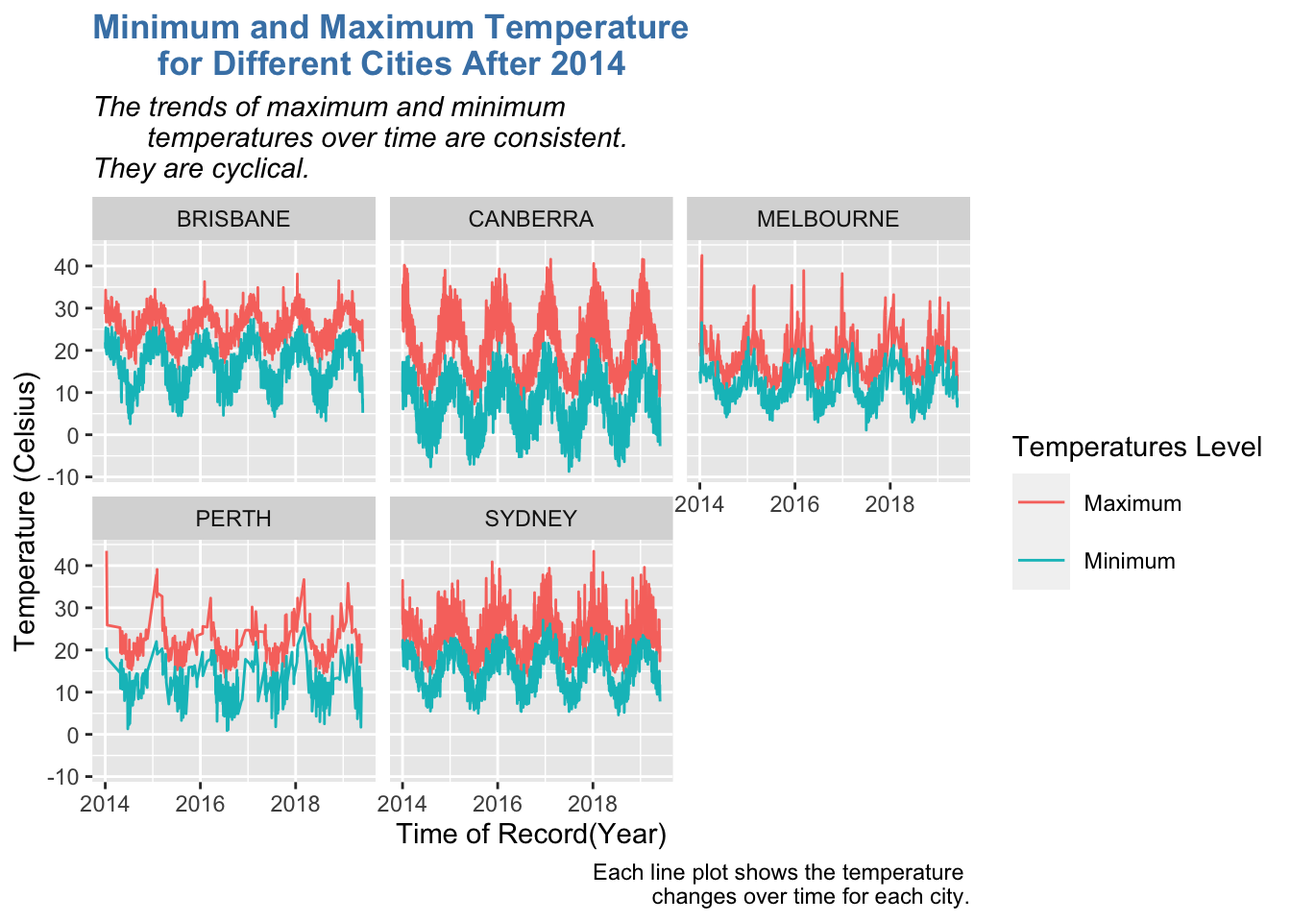
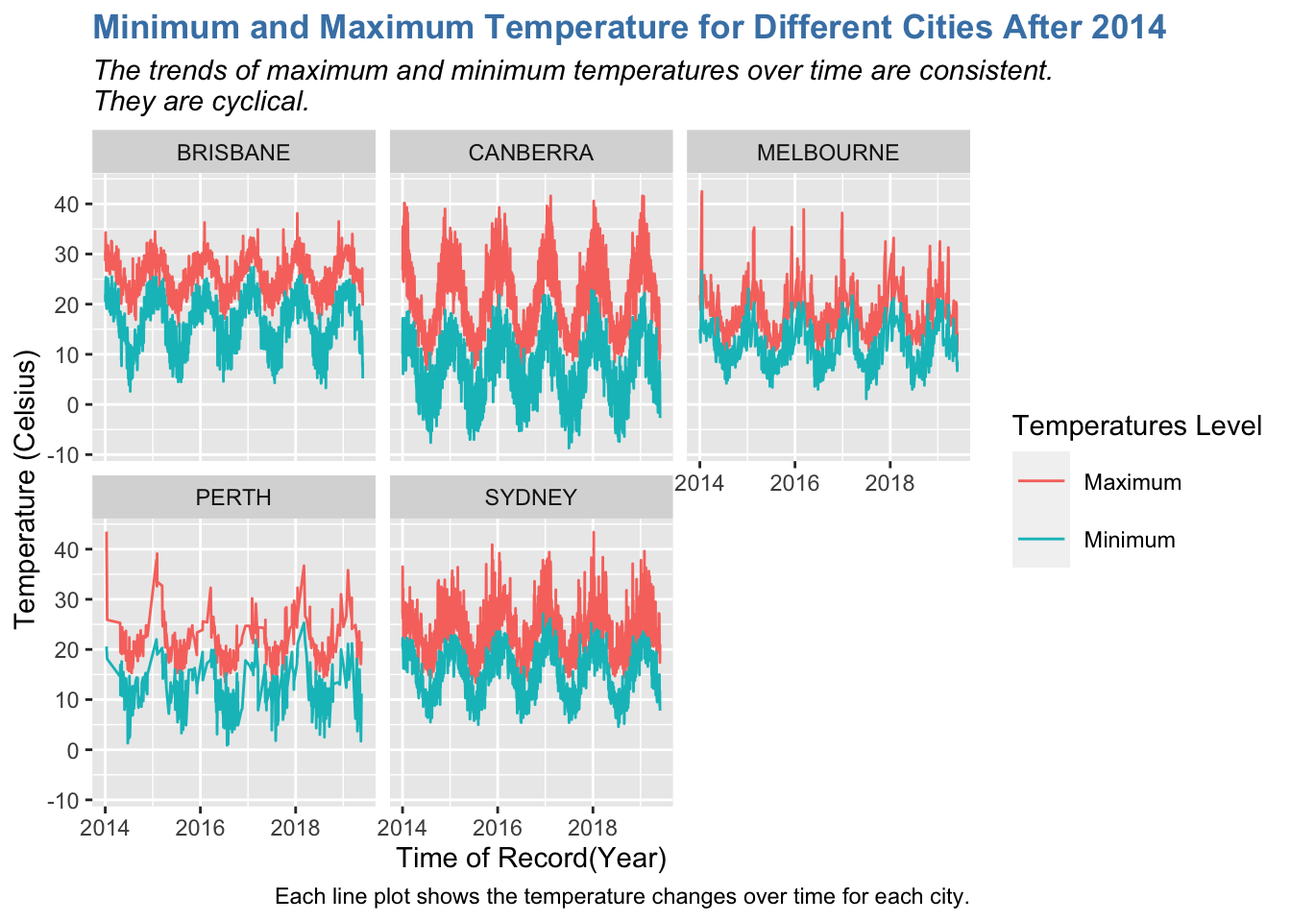
first complete webpage upload

Changed region(s): [[0.0, 0.0, 0.9062, 1.0], [0.7812, 0.4375, 1.0, 0.625], [0.7812, 0.5312, 0.8125, 0.5938]]

diff --git a/_site/analysis.html b/_site/analysis.html
@@ -159,8 +159,15 @@ code span.wa { color: #60a0b0; font-weight: bold; font-style: italic; } /* Warni
     <h2 id="toc-title">On this page</h2>
    
   <ul>
-  <li><a href="#plotting-temperature-data-over-time" id="toc-plotting-temperature-data-over-time" class="nav-link active" data-scroll-target="#plotting-temperature-data-over-time">Plotting temperature data over time</a></li>
-  <li><a href="#part-4b-tasks" id="toc-part-4b-tasks" class="nav-link" data-scroll-target="#part-4b-tasks">Part 4B: Tasks</a></li>
+  <li><a href="#data-analysis-goal" id="toc-data-analysis-goal" class="nav-link active" data-scroll-target="#data-analysis-goal">Data &amp; Analysis Goal</a></li>
+  <li><a href="#data-visualization" id="toc-data-visualization" class="nav-link" data-scroll-target="#data-visualization">Data Visualization</a>
+  <ul class="collapse">
+  <li><a href="#plotting-temperature-data-over-time" id="toc-plotting-temperature-data-over-time" class="nav-link" data-scroll-target="#plotting-temperature-data-over-time">Plotting temperature data over time</a></li>
+  <li><a href="#plotting-rainfall-data-over-time" id="toc-plotting-rainfall-data-over-time" class="nav-link" data-scroll-target="#plotting-rainfall-data-over-time">Plotting rainfall data over time</a></li>
+  <li><a href="#plotting-the-average-rainfall-of-each-year-for-each-city-with-95-condidence-interval" id="toc-plotting-the-average-rainfall-of-each-year-for-each-city-with-95-condidence-interval" class="nav-link" data-scroll-target="#plotting-the-average-rainfall-of-each-year-for-each-city-with-95-condidence-interval">Plotting the average rainfall of each Year for each City with 95% Condidence Interval</a></li>
+  </ul></li>
+  <li><a href="#analysis" id="toc-analysis" class="nav-link" data-scroll-target="#analysis">Analysis</a></li>
+  <li><a href="#functions-i-use" id="toc-functions-i-use" class="nav-link" data-scroll-target="#functions-i-use">Functions I use</a></li>
   </ul>
 </nav>
     </div>
@@ -183,7 +190,9 @@ code span.wa { color: #60a0b0; font-weight: bold; font-style: italic; } /* Warni
 
 </header>
 
-<p>This data is “about Australia, including it’s climate over time and recent fires.”(in-text citation?) I want to see the changes of rainfall corresponding to different temperatures and years in Australia.</p>
+<section id="data-analysis-goal" class="level2">
+<h2 class="anchored" data-anchor-id="data-analysis-goal">Data &amp; Analysis Goal</h2>
+<p>This data is about the amount of rainfall and the changes of temperatures over times in Australia. I want to see the changes of rainfall and corresponding to different years in Australia.</p>
 <p>And this data analysis will help meteorologists, botanists better understand the climate of Australia.</p>
 <div class="quarto-figure quarto-figure-center">
 <figure class="figure">
@@ -192,21 +201,25 @@ code span.wa { color: #60a0b0; font-weight: bold; font-style: italic; } /* Warni
 </figure>
 </div>
 <p>The two datasets I used here comes from TidyTuesday. Here is the link of the data set: https://github.com/rfordatascience/tidytuesday/tree/master/data/2020/2020-01-07</p>
+</section>
+<section id="data-visualization" class="level2 page-columns page-full">
+<h2 class="anchored" data-anchor-id="data-visualization">Data Visualization</h2>
 <div class="cell">
 <div class="sourceCode cell-code" id="cb1"><pre class="sourceCode r code-with-copy"><code class="sourceCode r"><span id="cb1-1"><a href="#cb1-1" aria-hidden="true" tabindex="-1"></a><span class="fu">library</span>(here)</span>
 <span id="cb1-2"><a href="#cb1-2" aria-hidden="true" tabindex="-1"></a><span class="fu">library</span>(tidyverse)</span>
 <span id="cb1-3"><a href="#cb1-3" aria-hidden="true" tabindex="-1"></a><span class="fu">library</span>(lubridate)</span></code><button title="Copy to Clipboard" class="code-copy-button"><i class="bi"></i></button></pre></div>
 </div>
 <div class="cell">
-<div class="sourceCode cell-code" id="cb2"><pre class="sourceCode r code-with-copy"><code class="sourceCode r"><span id="cb2-1"><a href="#cb2-1" aria-hidden="true" tabindex="-1"></a><span class="cf">if</span>(<span class="sc">!</span><span class="fu">file.exists</span>(<span class="fu">here</span>(<span class="st">"data"</span>,<span class="st">"tuesdata_rainfall.RDS"</span>))){</span>
-<span id="cb2-2"><a href="#cb2-2" aria-hidden="true" tabindex="-1"></a>  tuesdata <span class="ot">&lt;-</span> tidytuesdayR<span class="sc">::</span><span class="fu">tt_load</span>(<span class="st">'2020-01-07'</span>)</span>
-<span id="cb2-3"><a href="#cb2-3" aria-hidden="true" tabindex="-1"></a>  rainfall <span class="ot">&lt;-</span> tuesdata<span class="sc">$</span>rainfall</span>
-<span id="cb2-4"><a href="#cb2-4" aria-hidden="true" tabindex="-1"></a>  temperature <span class="ot">&lt;-</span> tuesdata<span class="sc">$</span>temperature</span>
-<span id="cb2-5"><a href="#cb2-5" aria-hidden="true" tabindex="-1"></a>  </span>
-<span id="cb2-6"><a href="#cb2-6" aria-hidden="true" tabindex="-1"></a>  <span class="co"># save the files to RDS objects</span></span>
-<span id="cb2-7"><a href="#cb2-7" aria-hidden="true" tabindex="-1"></a>  <span class="fu">saveRDS</span>(tuesdata<span class="sc">$</span>rainfall, <span class="at">file =</span> <span class="fu">here</span>(<span class="st">"data"</span>,<span class="st">"tuesdata_rainfall.RDS"</span>))</span>
-<span id="cb2-8"><a href="#cb2-8" aria-hidden="true" tabindex="-1"></a>  <span class="fu">saveRDS</span>(tuesdata<span class="sc">$</span>temperature, <span class="at">file =</span> <span class="fu">here</span>(<span class="st">"data"</span>,<span class="st">"tuesdata_temperature.RDS"</span>))</span>
-<span id="cb2-9"><a href="#cb2-9" aria-hidden="true" tabindex="-1"></a>}</span></code><button title="Copy to Clipboard" class="code-copy-button"><i class="bi"></i></button></pre></div>
+<div class="sourceCode cell-code" id="cb2"><pre class="sourceCode r code-with-copy"><code class="sourceCode r"><span id="cb2-1"><a href="#cb2-1" aria-hidden="true" tabindex="-1"></a><span class="co">#Download the data sets</span></span>
+<span id="cb2-2"><a href="#cb2-2" aria-hidden="true" tabindex="-1"></a><span class="cf">if</span>(<span class="sc">!</span><span class="fu">file.exists</span>(<span class="fu">here</span>(<span class="st">"data"</span>,<span class="st">"tuesdata_rainfall.RDS"</span>))){</span>
+<span id="cb2-3"><a href="#cb2-3" aria-hidden="true" tabindex="-1"></a>  tuesdata <span class="ot">&lt;-</span> tidytuesdayR<span class="sc">::</span><span class="fu">tt_load</span>(<span class="st">'2020-01-07'</span>)</span>
+<span id="cb2-4"><a href="#cb2-4" aria-hidden="true" tabindex="-1"></a>  rainfall <span class="ot">&lt;-</span> tuesdata<span class="sc">$</span>rainfall</span>
+<span id="cb2-5"><a href="#cb2-5" aria-hidden="true" tabindex="-1"></a>  temperature <span class="ot">&lt;-</span> tuesdata<span class="sc">$</span>temperature</span>
+<span id="cb2-6"><a href="#cb2-6" aria-hidden="true" tabindex="-1"></a>  </span>
+<span id="cb2-7"><a href="#cb2-7" aria-hidden="true" tabindex="-1"></a>  <span class="co"># save the files to RDS objects</span></span>
+<span id="cb2-8"><a href="#cb2-8" aria-hidden="true" tabindex="-1"></a>  <span class="fu">saveRDS</span>(tuesdata<span class="sc">$</span>rainfall, <span class="at">file =</span> <span class="fu">here</span>(<span class="st">"data"</span>,<span class="st">"tuesdata_rainfall.RDS"</span>))</span>
+<span id="cb2-9"><a href="#cb2-9" aria-hidden="true" tabindex="-1"></a>  <span class="fu">saveRDS</span>(tuesdata<span class="sc">$</span>temperature, <span class="at">file =</span> <span class="fu">here</span>(<span class="st">"data"</span>,<span class="st">"tuesdata_temperature.RDS"</span>))</span>
+<span id="cb2-10"><a href="#cb2-10" aria-hidden="true" tabindex="-1"></a>}</span></code><button title="Copy to Clipboard" class="code-copy-button"><i class="bi"></i></button></pre></div>
 </div>
 <div class="cell">
 <div class="sourceCode cell-code" id="cb3"><pre class="sourceCode r code-with-copy"><code class="sourceCode r"><span id="cb3-1"><a href="#cb3-1" aria-hidden="true" tabindex="-1"></a>rainfall <span class="ot">&lt;-</span> <span class="fu">readRDS</span>(<span class="fu">here</span>(<span class="st">"data"</span>,<span class="st">"tuesdata_rainfall.RDS"</span>))</span>
@@ -227,25 +240,22 @@ code span.wa { color: #60a0b0; font-weight: bold; font-style: italic; } /* Warni
 <div class="sourceCode cell-code" id="cb6"><pre class="sourceCode r code-with-copy"><code class="sourceCode r"><span id="cb6-1"><a href="#cb6-1" aria-hidden="true" tabindex="-1"></a><span class="co">#join rainfall and temperature</span></span>
 <span id="cb6-2"><a href="#cb6-2" aria-hidden="true" tabindex="-1"></a>df <span class="ot">=</span> rainfall_d <span class="sc">%&gt;%</span> <span class="fu">inner_join</span>(temperature, <span class="at">by =</span> <span class="fu">c</span>(<span class="st">"city_name"</span>, <span class="st">"date"</span>))</span></code><button title="Copy to Clipboard" class="code-copy-button"><i class="bi"></i></button></pre></div>
 </div>
-<section id="plotting-temperature-data-over-time" class="level2 page-columns page-full">
-<h2 class="anchored" data-anchor-id="plotting-temperature-data-over-time">Plotting temperature data over time</h2>
+<section id="plotting-temperature-data-over-time" class="level3">
+<h3 class="anchored" data-anchor-id="plotting-temperature-data-over-time">Plotting temperature data over time</h3>
 <div class="cell">
 <div class="sourceCode cell-code" id="cb7"><pre class="sourceCode r code-with-copy"><code class="sourceCode r"><span id="cb7-1"><a href="#cb7-1" aria-hidden="true" tabindex="-1"></a><span class="fu">library</span>(ggplot2)</span>
 <span id="cb7-2"><a href="#cb7-2" aria-hidden="true" tabindex="-1"></a>df <span class="sc">%&gt;%</span> <span class="fu">filter</span>(year <span class="sc">&gt;=</span> <span class="dv">2014</span>) <span class="sc">%&gt;%</span> </span>
 <span id="cb7-3"><a href="#cb7-3" aria-hidden="true" tabindex="-1"></a>  <span class="fu">ggplot</span>(<span class="fu">aes</span>(<span class="at">x =</span> date, <span class="at">y =</span> temperature, <span class="at">color =</span> temp_type)) <span class="sc">+</span> </span>
 <span id="cb7-4"><a href="#cb7-4" aria-hidden="true" tabindex="-1"></a>  <span class="fu">geom_line</span>()  <span class="sc">+</span> <span class="fu">facet_wrap</span>(<span class="fu">vars</span>(city_name)) <span class="sc">+</span></span>
 <span id="cb7-5"><a href="#cb7-5" aria-hidden="true" tabindex="-1"></a>  <span class="fu">labs</span>(<span class="at">x =</span> <span class="st">"Time of Record(Year)"</span>, <span class="at">y =</span> <span class="st">"Temperature (Celsius)"</span>, </span>
-<span id="cb7-6"><a href="#cb7-6" aria-hidden="true" tabindex="-1"></a>       <span class="at">title =</span> <span class="st">"Minimum and Maximum Temperature </span></span>
-<span id="cb7-7"><a href="#cb7-7" aria-hidden="true" tabindex="-1"></a><span class="st">       for Different Cities After 2014"</span>,</span>
-<span id="cb7-8"><a href="#cb7-8" aria-hidden="true" tabindex="-1"></a>       <span class="at">subtitle =</span> <span class="st">"The trends of maximum and minimum </span></span>
-<span id="cb7-9"><a href="#cb7-9" aria-hidden="true" tabindex="-1"></a><span class="st">       temperatures over time are consistent.</span><span class="sc">\n</span><span class="st">They are cyclical."</span>,</span>
-<span id="cb7-10"><a href="#cb7-10" aria-hidden="true" tabindex="-1"></a>       <span class="at">caption =</span> <span class="st">"Each line plot shows the temperature </span></span>
-<span id="cb7-11"><a href="#cb7-11" aria-hidden="true" tabindex="-1"></a><span class="st">       changes over time for each city."</span>) <span class="sc">+</span></span>
-<span id="cb7-12"><a href="#cb7-12" aria-hidden="true" tabindex="-1"></a>  <span class="fu">theme</span>(<span class="at">plot.title =</span> <span class="fu">element_text</span>(<span class="at">color=</span><span class="st">"steelblue"</span>, <span class="at">face=</span><span class="st">"bold"</span>),</span>
-<span id="cb7-13"><a href="#cb7-13" aria-hidden="true" tabindex="-1"></a>        <span class="at">plot.subtitle =</span> <span class="fu">element_text</span>(<span class="at">face=</span><span class="st">"italic"</span>), </span>
-<span id="cb7-14"><a href="#cb7-14" aria-hidden="true" tabindex="-1"></a>        <span class="at">legend.key.size =</span> <span class="fu">unit</span>(<span class="fl">0.8</span>, <span class="st">'cm'</span>)) <span class="sc">+</span> </span>
-<span id="cb7-15"><a href="#cb7-15" aria-hidden="true" tabindex="-1"></a>  <span class="fu">scale_color_discrete</span>(<span class="at">name =</span> <span class="st">"Temperatures Level"</span>,</span>
-<span id="cb7-16"><a href="#cb7-16" aria-hidden="true" tabindex="-1"></a>                       <span class="at">labels=</span><span class="fu">c</span>(<span class="st">"Maximum"</span>, <span class="st">"Minimum"</span>))</span></code><button title="Copy to Clipboard" class="code-copy-button"><i class="bi"></i></button></pre></div>
+<span id="cb7-6"><a href="#cb7-6" aria-hidden="true" tabindex="-1"></a>       <span class="at">title =</span> <span class="st">"Minimum and Maximum Temperature for Different Cities After 2014"</span>,</span>
+<span id="cb7-7"><a href="#cb7-7" aria-hidden="true" tabindex="-1"></a>       <span class="at">subtitle =</span> <span class="st">"The trends of maximum and minimum temperatures over time are consistent.</span><span class="sc">\n</span><span class="st">They are cyclical."</span>,</span>
+<span id="cb7-8"><a href="#cb7-8" aria-hidden="true" tabindex="-1"></a>       <span class="at">caption =</span> <span class="st">"Each line plot shows the temperature changes over time for each city."</span>) <span class="sc">+</span></span>
+<span id="cb7-9"><a href="#cb7-9" aria-hidden="true" tabindex="-1"></a>  <span class="fu">theme</span>(<span class="at">plot.title =</span> <span class="fu">element_text</span>(<span class="at">color=</span><span class="st">"steelblue"</span>, <span class="at">face=</span><span class="st">"bold"</span>),</span>
+<span id="cb7-10"><a href="#cb7-10" aria-hidden="true" tabindex="-1"></a>        <span class="at">plot.subtitle =</span> <span class="fu">element_text</span>(<span class="at">face=</span><span class="st">"italic"</span>), </span>
+<span id="cb7-11"><a href="#cb7-11" aria-hidden="true" tabindex="-1"></a>        <span class="at">legend.key.size =</span> <span class="fu">unit</span>(<span class="fl">0.8</span>, <span class="st">'cm'</span>)) <span class="sc">+</span> </span>
+<span id="cb7-12"><a href="#cb7-12" aria-hidden="true" tabindex="-1"></a>  <span class="fu">scale_color_discrete</span>(<span class="at">name =</span> <span class="st">"Temperatures Level"</span>,</span>
+<span id="cb7-13"><a href="#cb7-13" aria-hidden="true" tabindex="-1"></a>                       <span class="at">labels=</span><span class="fu">c</span>(<span class="st">"Maximum"</span>, <span class="st">"Minimum"</span>))</span></code><button title="Copy to Clipboard" class="code-copy-button"><i class="bi"></i></button></pre></div>
 <div class="cell-output-display">
 <p><img src="analysis_files/figure-html/unnamed-chunk-7-1.png" class="img-fluid" width="672"></p>
 </div>
@@ -256,7 +266,7 @@ code span.wa { color: #60a0b0; font-weight: bold; font-style: italic; } /* Warni
 <i class="callout-icon"></i>
 </div>
 <div class="callout-caption-container flex-fill">
-Tip
+Ideals about the function
 </div>
 <div class="callout-btn-toggle d-inline-block border-0 py-1 ps-1 pe-0 float-end"><i class="callout-toggle"></i></div>
 </div>
@@ -271,33 +281,36 @@ Tip
 </div>
 </div>
 </div>
+</section>
+<section id="plotting-rainfall-data-over-time" class="level3 page-columns page-full">
+<h3 class="anchored" data-anchor-id="plotting-rainfall-data-over-time">Plotting rainfall data over time</h3>
 <div class="cell">
-<div class="sourceCode cell-code" id="cb8"><pre class="sourceCode r code-with-copy"><code class="sourceCode r"><span id="cb8-1"><a href="#cb8-1" aria-hidden="true" tabindex="-1"></a>rainfall_plot <span class="ot">=</span> <span class="cf">function</span>(name, time){</span>
-<span id="cb8-2"><a href="#cb8-2" aria-hidden="true" tabindex="-1"></a>  cityname_list <span class="ot">=</span> df<span class="sc">$</span>city_name <span class="sc">%&gt;%</span> <span class="fu">unique</span>()</span>
-<span id="cb8-3"><a href="#cb8-3" aria-hidden="true" tabindex="-1"></a>  <span class="cf">if</span> (name <span class="sc">%in%</span> cityname_list){</span>
-<span id="cb8-4"><a href="#cb8-4" aria-hidden="true" tabindex="-1"></a>    <span class="cf">if</span> ((df <span class="sc">%&gt;%</span> <span class="fu">filter</span>(city_name <span class="sc">==</span> name, year <span class="sc">==</span> time)<span class="sc">%&gt;%</span> </span>
-<span id="cb8-5"><a href="#cb8-5" aria-hidden="true" tabindex="-1"></a>         <span class="fu">count</span>()) <span class="sc">&gt;</span> <span class="dv">0</span>){</span>
-<span id="cb8-6"><a href="#cb8-6" aria-hidden="true" tabindex="-1"></a>      df <span class="sc">%&gt;%</span> </span>
-<span id="cb8-7"><a href="#cb8-7" aria-hidden="true" tabindex="-1"></a>  <span class="fu">filter</span>(city_name <span class="sc">==</span> name, year <span class="sc">==</span> time) <span class="sc">%&gt;%</span> </span>
-<span id="cb8-8"><a href="#cb8-8" aria-hidden="true" tabindex="-1"></a>  <span class="fu">ggplot</span>(<span class="fu">aes</span>(<span class="fu">log</span>(rainfall))) <span class="sc">+</span> </span>
-<span id="cb8-9"><a href="#cb8-9" aria-hidden="true" tabindex="-1"></a>    <span class="fu">geom_histogram</span>(<span class="at">color =</span> <span class="st">"white"</span>, <span class="at">fill =</span> <span class="st">"steelblue"</span>) <span class="sc">+</span></span>
-<span id="cb8-10"><a href="#cb8-10" aria-hidden="true" tabindex="-1"></a>  <span class="fu">stat_bin</span>(<span class="at">geom=</span><span class="st">'text'</span>, <span class="fu">aes</span>(<span class="at">label =</span> ..count..), </span>
-<span id="cb8-11"><a href="#cb8-11" aria-hidden="true" tabindex="-1"></a>           <span class="at">position=</span><span class="fu">position_stack</span>(<span class="at">vjust =</span> <span class="fl">0.5</span>), <span class="at">size =</span> <span class="dv">3</span>)<span class="sc">+</span></span>
-<span id="cb8-12"><a href="#cb8-12" aria-hidden="true" tabindex="-1"></a>  <span class="fu">labs</span>(<span class="at">x =</span> <span class="st">"Amount of Rainfall"</span>, <span class="at">y =</span> <span class="st">"Numbers of Occurence"</span>, </span>
-<span id="cb8-13"><a href="#cb8-13" aria-hidden="true" tabindex="-1"></a>       <span class="at">title =</span> <span class="fu">paste</span>(<span class="st">"Histograms of Rainfall for"</span>, name, <span class="st">"in"</span>, time),</span>
-<span id="cb8-14"><a href="#cb8-14" aria-hidden="true" tabindex="-1"></a>       <span class="at">subtitle =</span> <span class="st">"This plot shows the distribution of rainfall for the given city and year."</span>,</span>
-<span id="cb8-15"><a href="#cb8-15" aria-hidden="true" tabindex="-1"></a>       <span class="at">caption =</span> <span class="st">"Here we use log scale of rainfall."</span>) <span class="sc">+</span>  </span>
-<span id="cb8-16"><a href="#cb8-16" aria-hidden="true" tabindex="-1"></a>  <span class="fu">theme</span>(<span class="at">plot.title =</span> <span class="fu">element_text</span>(<span class="at">color=</span><span class="st">"steelblue"</span>, <span class="at">face=</span><span class="st">"bold"</span>),</span>
-<span id="cb8-17"><a href="#cb8-17" aria-hidden="true" tabindex="-1"></a>        <span class="at">plot.subtitle =</span> <span class="fu">element_text</span>(<span class="at">face=</span><span class="st">"italic"</span>))</span>
-<span id="cb8-18"><a href="#cb8-18" aria-hidden="true" tabindex="-1"></a>    }</span>
-<span id="cb8-19"><a href="#cb8-19" aria-hidden="true" tabindex="-1"></a>    <span class="cf">else</span>{</span>
-<span id="cb8-20"><a href="#cb8-20" aria-hidden="true" tabindex="-1"></a>      error_year <span class="ot">=</span> <span class="st">"There is no rainfull recorded under the year you want to look into! </span><span class="sc">\n</span><span class="st">Please change the year you entered."</span></span>
-<span id="cb8-21"><a href="#cb8-21" aria-hidden="true" tabindex="-1"></a>      <span class="fu">stop</span>(error_year)</span>
-<span id="cb8-22"><a href="#cb8-22" aria-hidden="true" tabindex="-1"></a>    }</span>
-<span id="cb8-23"><a href="#cb8-23" aria-hidden="true" tabindex="-1"></a>  }</span>
-<span id="cb8-24"><a href="#cb8-24" aria-hidden="true" tabindex="-1"></a>  <span class="cf">else</span>{</span>
-<span id="cb8-25"><a href="#cb8-25" aria-hidden="true" tabindex="-1"></a>    error_name <span class="ot">=</span> <span class="st">"There is no rainfull recorded for the city </span></span>
-<span id="cb8-26"><a href="#cb8-26" aria-hidden="true" tabindex="-1"></a><span class="st">    you entered! </span><span class="sc">\n</span><span class="st">Please change the city name."</span></span>
+<div class="sourceCode cell-code" id="cb8"><pre class="sourceCode r code-with-copy"><code class="sourceCode r"><span id="cb8-1"><a href="#cb8-1" aria-hidden="true" tabindex="-1"></a><span class="co">#Create the function to plot the amount of rainfall in a specific year for one city in Austalia</span></span>
+<span id="cb8-2"><a href="#cb8-2" aria-hidden="true" tabindex="-1"></a>rainfall_plot <span class="ot">=</span> <span class="cf">function</span>(name, time){</span>
+<span id="cb8-3"><a href="#cb8-3" aria-hidden="true" tabindex="-1"></a>  cityname_list <span class="ot">=</span> df<span class="sc">$</span>city_name <span class="sc">%&gt;%</span> <span class="fu">unique</span>()</span>
+<span id="cb8-4"><a href="#cb8-4" aria-hidden="true" tabindex="-1"></a>  <span class="cf">if</span> (name <span class="sc">%in%</span> cityname_list){</span>
+<span id="cb8-5"><a href="#cb8-5" aria-hidden="true" tabindex="-1"></a>    <span class="cf">if</span> ((df <span class="sc">%&gt;%</span> <span class="fu">filter</span>(city_name <span class="sc">==</span> name, year <span class="sc">==</span> time)<span class="sc">%&gt;%</span> </span>
+<span id="cb8-6"><a href="#cb8-6" aria-hidden="true" tabindex="-1"></a>         <span class="fu">count</span>()) <span class="sc">&gt;</span> <span class="dv">0</span>){</span>
+<span id="cb8-7"><a href="#cb8-7" aria-hidden="true" tabindex="-1"></a>      df <span class="sc">%&gt;%</span> </span>
+<span id="cb8-8"><a href="#cb8-8" aria-hidden="true" tabindex="-1"></a>  <span class="fu">filter</span>(city_name <span class="sc">==</span> name, year <span class="sc">==</span> time) <span class="sc">%&gt;%</span> </span>
+<span id="cb8-9"><a href="#cb8-9" aria-hidden="true" tabindex="-1"></a>  <span class="fu">ggplot</span>(<span class="fu">aes</span>(<span class="fu">log</span>(rainfall))) <span class="sc">+</span> </span>
+<span id="cb8-10"><a href="#cb8-10" aria-hidden="true" tabindex="-1"></a>    <span class="fu">geom_histogram</span>(<span class="at">color =</span> <span class="st">"white"</span>, <span class="at">fill =</span> <span class="st">"steelblue"</span>) <span class="sc">+</span></span>
+<span id="cb8-11"><a href="#cb8-11" aria-hidden="true" tabindex="-1"></a>  <span class="fu">stat_bin</span>(<span class="at">geom=</span><span class="st">'text'</span>, <span class="fu">aes</span>(<span class="at">label =</span> ..count..), </span>
+<span id="cb8-12"><a href="#cb8-12" aria-hidden="true" tabindex="-1"></a>           <span class="at">position=</span><span class="fu">position_stack</span>(<span class="at">vjust =</span> <span class="fl">0.5</span>), <span class="at">size =</span> <span class="dv">3</span>)<span class="sc">+</span></span>
+<span id="cb8-13"><a href="#cb8-13" aria-hidden="true" tabindex="-1"></a>  <span class="fu">labs</span>(<span class="at">x =</span> <span class="st">"Amount of Rainfall"</span>, <span class="at">y =</span> <span class="st">"Numbers of Occurence"</span>, </span>
+<span id="cb8-14"><a href="#cb8-14" aria-hidden="true" tabindex="-1"></a>       <span class="at">title =</span> <span class="fu">paste</span>(<span class="st">"Histograms of Rainfall for"</span>, name, <span class="st">"in"</span>, time),</span>
+<span id="cb8-15"><a href="#cb8-15" aria-hidden="true" tabindex="-1"></a>       <span class="at">subtitle =</span> <span class="st">"This plot shows the distribution of rainfall for the given city and year."</span>,</span>
+<span id="cb8-16"><a href="#cb8-16" aria-hidden="true" tabindex="-1"></a>       <span class="at">caption =</span> <span class="st">"Here we use log scale of rainfall."</span>) <span class="sc">+</span>  </span>
+<span id="cb8-17"><a href="#cb8-17" aria-hidden="true" tabindex="-1"></a>  <span class="fu">theme</span>(<span class="at">plot.title =</span> <span class="fu">element_text</span>(<span class="at">color=</span><span class="st">"steelblue"</span>, <span class="at">face=</span><span class="st">"bold"</span>),</span>
+<span id="cb8-18"><a href="#cb8-18" aria-hidden="true" tabindex="-1"></a>        <span class="at">plot.subtitle =</span> <span class="fu">element_text</span>(<span class="at">face=</span><span class="st">"italic"</span>))</span>
+<span id="cb8-19"><a href="#cb8-19" aria-hidden="true" tabindex="-1"></a>    }</span>
+<span id="cb8-20"><a href="#cb8-20" aria-hidden="true" tabindex="-1"></a>    <span class="cf">else</span>{</span>
+<span id="cb8-21"><a href="#cb8-21" aria-hidden="true" tabindex="-1"></a>      error_year <span class="ot">=</span> <span class="st">"There is no rainfull recorded under the year you want to look into! </span><span class="sc">\n</span><span class="st">Please change the year you entered."</span></span>
+<span id="cb8-22"><a href="#cb8-22" aria-hidden="true" tabindex="-1"></a>      <span class="fu">stop</span>(error_year)</span>
+<span id="cb8-23"><a href="#cb8-23" aria-hidden="true" tabindex="-1"></a>    }</span>
+<span id="cb8-24"><a href="#cb8-24" aria-hidden="true" tabindex="-1"></a>  }</span>
+<span id="cb8-25"><a href="#cb8-25" aria-hidden="true" tabindex="-1"></a>  <span class="cf">else</span>{</span>
+<span id="cb8-26"><a href="#cb8-26" aria-hidden="true" tabindex="-1"></a>    error_name <span class="ot">=</span> <span class="st">"There is no rainfull recorded for the city you entered! </span><span class="sc">\n</span><span class="st">Please change the city name."</span></span>
 <span id="cb8-27"><a href="#cb8-27" aria-hidden="true" tabindex="-1"></a>    <span class="fu">stop</span>(error_name)</span>
 <span id="cb8-28"><a href="#cb8-28" aria-hidden="true" tabindex="-1"></a>  }</span>
 <span id="cb8-29"><a href="#cb8-29" aria-hidden="true" tabindex="-1"></a>  }</span></code><button title="Copy to Clipboard" class="code-copy-button"><i class="bi"></i></button></pre></div>
@@ -363,6 +376,9 @@ Note
 <span id="cb15-6"><a href="#cb15-6" aria-hidden="true" tabindex="-1"></a>        <span class="fu">return</span>(CI)</span>
 <span id="cb15-7"><a href="#cb15-7" aria-hidden="true" tabindex="-1"></a>}</span></code><button title="Copy to Clipboard" class="code-copy-button"><i class="bi"></i></button></pre></div>
 </div>
+</section>
+<section id="plotting-the-average-rainfall-of-each-year-for-each-city-with-95-condidence-interval" class="level3">
+<h3 class="anchored" data-anchor-id="plotting-the-average-rainfall-of-each-year-for-each-city-with-95-condidence-interval">Plotting the average rainfall of each Year for each City with 95% Condidence Interval</h3>
 <div class="cell">
 <div class="sourceCode cell-code" id="cb16"><pre class="sourceCode r code-with-copy"><code class="sourceCode r"><span id="cb16-1"><a href="#cb16-1" aria-hidden="true" tabindex="-1"></a>rain_df <span class="ot">=</span> df <span class="sc">%&gt;%</span> <span class="fu">filter</span>(year <span class="sc">&gt;=</span> <span class="dv">2014</span>) <span class="sc">%&gt;%</span> </span>
 <span id="cb16-2"><a href="#cb16-2" aria-hidden="true" tabindex="-1"></a>  <span class="fu">select</span>(city_name, date, rainfall, year, station_name) <span class="sc">%&gt;%</span> </span>
@@ -371,9 +387,6 @@ Note
 <span id="cb16-5"><a href="#cb16-5" aria-hidden="true" tabindex="-1"></a>            <span class="at">lower_bound =</span> <span class="fu">calculate_CI</span>(rainfall, <span class="fl">0.95</span>)[<span class="dv">1</span>], </span>
 <span id="cb16-6"><a href="#cb16-6" aria-hidden="true" tabindex="-1"></a>            <span class="at">upper_bound =</span> <span class="fu">calculate_CI</span>(rainfall, <span class="fl">0.95</span>)[<span class="dv">2</span>])</span></code><button title="Copy to Clipboard" class="code-copy-button"><i class="bi"></i></button></pre></div>
 </div>
-</section>
-<section id="part-4b-tasks" class="level2">
-<h2 class="anchored" data-anchor-id="part-4b-tasks">Part 4B: Tasks</h2>
 <div class="cell">
 <div class="sourceCode cell-code" id="cb17"><pre class="sourceCode r code-with-copy"><code class="sourceCode r"><span id="cb17-1"><a href="#cb17-1" aria-hidden="true" tabindex="-1"></a>rain_df <span class="sc">%&gt;%</span> <span class="fu">ggplot</span>(<span class="fu">aes</span>(<span class="at">y =</span> sample_mean, <span class="at">x =</span> year, <span class="at">color =</span> city_name)) <span class="sc">+</span></span>
 <span id="cb17-2"><a href="#cb17-2" aria-hidden="true" tabindex="-1"></a>  <span class="fu">geom_point</span>() <span class="sc">+</span> <span class="fu">geom_line</span>() <span class="sc">+</span> <span class="fu">facet_wrap</span>(<span class="fu">vars</span>(city_name))<span class="sc">+</span></span>
@@ -390,6 +403,18 @@ Note
 <p><img src="analysis_files/figure-html/unnamed-chunk-17-1.png" class="img-fluid" width="672"></p>
 </div>
 </div>
+</section>
+</section>
+<section id="analysis" class="level2">
+<h2 class="anchored" data-anchor-id="analysis">Analysis</h2>
+<p>From the temperature plot, we can see that the changes of the maximum and minimum temperatures each city are synchronized with the same trend in each year. And the changes is cyclical and the temperatures are almost the same in the same month each year.</p>
+<p>For the changes of the amount of rainfall is not with certain trends. But from the last plots, we can see that the amount of rainfall is kind of reducing, and some cities’ rainfalls suddenly reduce a lot.</p>
+</section>
+<section id="functions-i-use" class="level2">
+<h2 class="anchored" data-anchor-id="functions-i-use">Functions I use</h2>
+<p><strong>ggplot</strong>: ggplot(), geom_point(), geom_line(), geom_histogram(), stat_bin(), geom_errorbar(), labs(), theme(), scale_color_discrete()</p>
+<p><strong>dplyr</strong>: filter(), group_by, summarise(), unique(), mutate(), select()</p>
+<p><strong>tidyr</strong>: drop_na()</p>
 
 
 </section>
